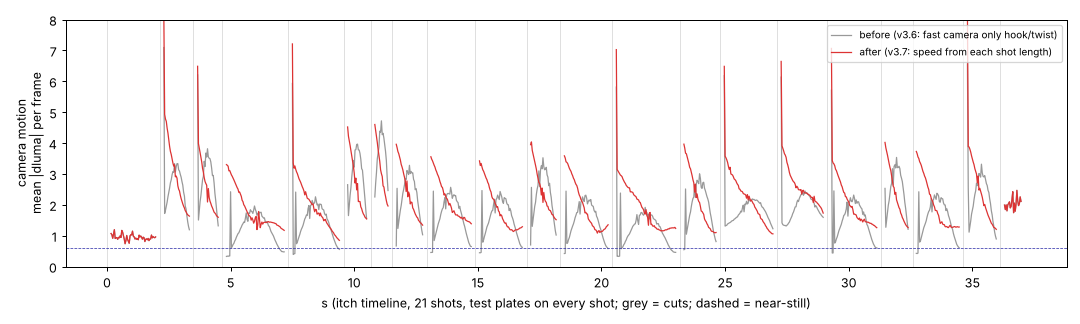
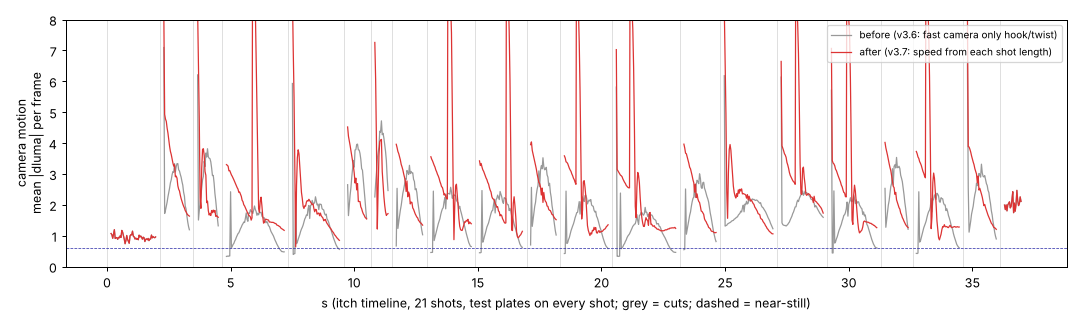
brainrot-v3: hard cuts inside a beat + zoom punch on key words, brainrot-v2 feel (v3.7 #18)
Planning room: the 0.1 s crossfade between shots of one beat made cuts soft. cut_kind() in build_index.py: beat
change / hook / twist = the look's transition (look.py still rotates it), loop seam = match, every other cut = hard
cut. Zoom punch (v2 formula, made >= 0 so the picture never shrinks past the frame edge) on highlighted captions after
the hook, >= 1.5 s apart; episode.json "punch": "off" | [captions]. Checked on the itch timeline: 12 punches in
37 s, no background at the frame edge in 1110 frames. Motion plot/GIF in docs/review-assets/v3.7 now show the final.
Test added.

Claude-Session: https://claude.ai/code/session_016zMkaSyNJ1q5w5ZvoFEJXS

diff --git a/templates/brainrot-v3/build_index.py b/templates/brainrot-v3/build_index.py
@@ -12,8 +12,10 @@ look.json picks palette / font / caption / opening / cover / transition from tem
 voice are for the voice step; music_file becomes the music track). Shot times come from shots-th.json only
 (tools/shot_times.py, refused if stale). Every shot needs a "beat" (hook ... loop). Camera (dev v3.7): every shot
 moves at a speed set by its REAL length (camera() below: a short shot pushes faster, never a still frame > 0.5 s),
-hook/twist ~1.3x stronger; the look's transition plays wherever the beat changes and inside hook/twist, other cuts
-inside one beat are a 0.1 s match. See docs/editing-v3.md.
+hook/twist ~1.3x stronger. Cuts (dev v3.7 #18, brainrot-v2 feel): the look's transition (look.py rotates it) plays
+wherever the beat changes and inside hook/twist; every other cut is a HARD cut (was a 0.1 s crossfade); the loop shot
+keeps a 0.1 s match into the hook plate. Zoom punch (v2): the picture punches in on highlighted *caption* words, at
+most one per PUNCH_GAP s (episode.json "punch": "off" | ["caption text", ...] overrides). See docs/editing-v3.md.
 
 episode.json:
 {
@@ -156,6 +158,36 @@ def camera(d, beat, i):
             'pan': 24 if i % 2 else -24}
 
 
+def cut_kind(i, s, prev):
+    """How shot i enters: none (first), match (loop seam), the look's transition (beat change / hook / twist), else cut."""
+    if i == 0:
+        return 'none'
+    if s['beat'] == 'loop':
+        return 'match'
+    if s['beat'] in FAST or s['beat'] != prev['beat']:
+        return LOOK['transition']
+    return 'cut'
+
+
+PUNCH_GAP = 1.5
+
+
+def punches(caps, times, dur, hook_end):
+    """Zoom-punch times: highlighted captions after the hook, >= PUNCH_GAP s apart, not in the last 0.5 s (loop seam)."""
+    want = EP.get('punch', 'auto')
+    if want == 'off':
+        return []
+    if isinstance(want, list):
+        pick = [t for c, t in zip(caps, times) if c in want or c.replace('*', '') in want]
+    else:
+        pick = [t for c, t in zip(caps, times) if '*' in c and t >= hook_end]
+    out = []
+    for t in pick:
+        if t < dur - 0.5 and (not out or t - out[-1] >= PUNCH_GAP):
+            out.append(t)
+    return out
+
+
 def is_video(p):
     return p.lower().endswith(('.mp4', '.webm', '.mov'))
 
@@ -181,7 +213,8 @@ def scenes():
         else:
             inner = f'<img class="vid" src="{html.escape(plate)}" alt=""/>'
         out.append(f'  <div class="sc" id="sh-{sid}"><div class="kb" id="kb-{sid}">{inner}</div><div class="vig"></div></div>')
-        sc.append({'id': sid, 'a': a, 'b': b, 'beat': s['beat'], 'still': loop or i == 0, 'cam': camera(b - a, s['beat'], i)})
+        sc.append({'id': sid, 'a': a, 'b': b, 'beat': s['beat'], 'still': loop or i == 0, 'cam': camera(b - a, s['beat'], i),
+                   'k': cut_kind(i, s, SHOTS[i - 1] if i else None)})
     return '\n'.join(out), sc
 
 
@@ -300,7 +333,7 @@ VARS = {'--bg': PAL['bg'], '--bg2': PAL['bg2'], '--ink': PAL['ink'], '--text': P
 music = LOOK.get('music_file')
 MUSIC = (f'<audio id="music" class="clip" data-start="0" data-duration="{DUR}" data-track-index="31" data-volume="0.1" '
          f'src="assets/{html.escape(pathlib.Path(music).name)}"></audio>') if music else '<!-- no music_file in look.json yet -->'
-DATA = {'dur': DUR, 'capt': capt, 'sc': SC, 'hookEnd': HOOK_END, 'look': {k: LOOK[k] for k in
+DATA = {'dur': DUR, 'capt': capt, 'sc': SC, 'hookEnd': HOOK_END, 'punch': punches(CAPS, capt, DUR, HOOK_END), 'look': {k: LOOK[k] for k in
         ('palette', 'font', 'caption', 'opening', 'cover', 'transition')}}
 rep = {'%%DUR%%': str(DUR), '%%VARS%%': ';'.join(f'{k}:{v}' for k, v in VARS.items()),
        '%%SCENES%%': SCENES, '%%CAPS%%': caps(), '%%TITLE%%': title(), '%%ICONS%%': icons(),

diff --git a/tests/test_build_index_v3.py b/tests/test_build_index_v3.py
@@ -258,3 +258,33 @@ def test_camera_speed_follows_real_shot_length(tmp_path):
     tpl = (V3 / 'index.html.tpl').read_text()
     assert 'lerp(1.0,1.08,eio(uu))' not in tpl and 'const c=s.cam' in tpl
     assert sp(1.0) >= 0.095 and sp(2.0) >= 0.06 and all(cam(d, b, 0)['k1'] <= 1.22 for d in (1, 3, 9) for b in ('hook', 'setup'))
+
+
+def test_hard_cuts_inside_a_beat_and_zoom_punch_on_key_words(tmp_path):
+    """planning room v3.7 #18 (brainrot-v2 feel): inside one beat = hard cut (was a 0.1 s crossfade); beat change and
+    hook/twist = the look's transition (look.py still rotates it); loop seam = match. Zoom punch on highlighted
+    captions after the hook, >= 1.5 s apart; episode.json "punch": "off" turns it off."""
+    shots = json.loads((FIX / 'shots.json').read_text())
+    # two explain shots in a row -> the second one must enter with a hard cut
+    ex = next(i for i, s in enumerate(shots['shots']) if s['beat'] == 'explain')
+    shots['shots'][ex + 1]['beat'] = 'explain'
+    proj, video = project(tmp_path / 'a', LOOK_A, shots=json.dumps(shots, ensure_ascii=False))
+    r = build(video)
+    assert r.returncode == 0, r.stderr
+    page = (video / 'index.html').read_text()
+    data = json.loads(re.search(r'const D=(\{.*?\}), DUR=', page).group(1))
+    sc = data['sc']
+    assert sc[0]['k'] == 'none' and sc[-1]['k'] == 'match'
+    for prev, s in zip(sc, sc[1:-1]):
+        want = 'slide' if (s['beat'] in ('hook', 'twist') or s['beat'] != prev['beat']) else 'cut'
+        assert s['k'] == want, (s['id'], s['k'], want)
+    assert any(s['k'] == 'cut' for s in sc)
+    caps = json.loads((FIX / 'episode.json').read_text())['caps']
+    assert any('*' in c for c in caps)
+    p = data['punch']
+    assert p and all(b - a >= 1.5 for a, b in zip(p, p[1:])) and all(t >= data['hookEnd'] for t in p)
+    tpl = (V3 / 'index.html.tpl').read_text()
+    assert "nx.k==='cut'" in tpl and 'const kind=' not in tpl and '(1+Math.cos(u*13))/2' in tpl
+    proj, video = project(tmp_path / 'b', LOOK_A, episode={'punch': 'off'})
+    assert build(video).returncode == 0
+    assert '"punch": []' in (video / 'index.html').read_text()

diff --git a/templates/brainrot-v3/TEMPLATE.md b/templates/brainrot-v3/TEMPLATE.md
@@ -27,7 +27,7 @@
 - `cover.html`: ปก A/B แยกจากเฟรม 0 (ดูขั้นตอนข้อ 6)
 
 ## สิ่งที่แม่แบบทำให้เอง
-- กล้อง (dev v3.7): **ทุกช็อตขยับตามความยาวจริงของช็อต** (`camera()` ใน build_index.py: push 10-17% + แพนขึ้น/ลง 24 px ยิ่งช็อตสั้นยิ่งเร็ว 1 วิ ≈ 10%/วิ, 2 วิ ≈ 6.5%/วิ, 4 วิ ≈ 4.3%/วิ; ออกตัวแรง 2.2 เท่าของความเร็วเฉลี่ยตรงจุดตัดแล้วผ่อน แต่ไม่ต่ำกว่า 40%; หมุน ±0.6° สลับทิศทีละช็อต + ส่าย 10 px ไม่หยุด; hook/twist แรงขึ้น ×1.3 + ส่าย 14 px) ความรู้สึกแบบ brainrot v2 ไม่มีเฟรมนิ่ง >0.5 วิ; ทรานซิชันของ look เล่นทุกครั้งที่เปลี่ยนช่วงเรื่อง และใน hook/หักมุม ช็อตอื่นในช่วงเดียวกัน = ครอสเฟด 0.1 วิ
+- กล้อง (dev v3.7): **ทุกช็อตขยับตามความยาวจริงของช็อต** (`camera()` ใน build_index.py: push 10-17% + แพนขึ้น/ลง 24 px ยิ่งช็อตสั้นยิ่งเร็ว 1 วิ ≈ 10%/วิ, 2 วิ ≈ 6.5%/วิ, 4 วิ ≈ 4.3%/วิ; ออกตัวแรง 2.2 เท่าของความเร็วเฉลี่ยตรงจุดตัดแล้วผ่อน แต่ไม่ต่ำกว่า 40%; หมุน ±0.6° สลับทิศทีละช็อต + ส่าย 10 px ไม่หยุด; hook/twist แรงขึ้น ×1.3 + ส่าย 14 px) ความรู้สึกแบบ brainrot v2 ไม่มีเฟรมนิ่ง >0.5 วิ; ทรานซิชันของ look (look.py สุ่มเหมือนเดิม) เล่นทุกครั้งที่เปลี่ยนช่วงเรื่อง และใน hook/หักมุม ช็อตอื่นในช่วงเดียวกัน = **คัตแข็ง** (v3.7 #18 แบบ brainrot v2; เดิมครอสเฟด 0.1 วิ) ช็อต loop = ครอสเฟดเข้าภาพ hook; **zoom punch** (เด้งเข้า ~8% แล้วคืน ภาพเท่านั้น หัวข้อ/ซับไม่ขยับ) ตรงซับที่มี `*คำสำคัญ*` หลังช่วง hook ห่างกัน ≥1.5 วิ (`episode.json` `"punch": "off"` ปิด หรือ `["ข้อความซับ", ...]` เลือกเอง)
 - เฟรม 0: หัวข้อ hook เต็มตั้งแต่เฟรมแรก (ไม่มี fade) หายใจ 1.0↔1.04 หายตอนจบช่วง hook แล้วเด้งกลับ 0.3 วิสุดท้าย
 - ลูป: ช็อตสุดท้าย (beat `loop`) เล่น plate ของ hook ให้จบที่ `media_start` ของ hook = เฟรม 0 (ต้องตั้ง `media_start` ของ hook ≥ ความยาวช็อต loop)
 - ซับ 4 แบบ (`stroke` `box` `pop` `underline`) ก้อนละ ≥0.4 วิ ไฮไลต์ `*คำสำคัญ*`, เปิด 4 แบบ (`question` `midstory` `pov` `number`) × จัดวางเฟรม 0 3 แบบ (`stack` `card` `tilt`), ทรานซิชัน 5 แบบ (`whip` `zoom` `match` `flash` `slide`)

diff --git a/channels/knowledge/style.md b/channels/knowledge/style.md
@@ -180,7 +180,7 @@
   (v3.7: กล้องแม่แบบขยับทุกช็อตตามความยาวช็อตจริง push 10-17% + แพน 24 px + หมุน ±0.6° + ส่ายไม่หยุด ช็อตสั้น = เคลื่อนชัด ผ่านข้อนี้; ข้อ "motion ≥2 ชั้น" ให้นับกราฟิก/ซับที่ขยับในช็อตเป็นชั้นที่ 2)
 - hook: ข้อความคำถามอยู่ตั้งแต่เฟรมแรก แต่ "หายใจ" (scale 1.0↔1.04 spring) ภาพเปลี่ยนครั้งแรก < 1.0 วิ
 - แผนภาพ 2D เคลื่อนตลอด (อนุภาค/พัลส์/คลื่น) กล้องซูม/แพนตามจุดที่พูดถึง
-- ทรานซิชัน: whip-pan / zoom-through / match-cut ไม่ตัดแข็งทุกช็อต (v3: ทรานซิชันของ look เล่นเฉพาะตอนเปลี่ยนช่วงเรื่องและใน hook/หักมุม ช็อตอื่นครอสเฟด 0.1 วิ จึงไม่มีตัดแข็ง/แฟลชทุกช็อต)
+- ทรานซิชัน: whip-pan / zoom-through / match-cut ไม่ตัดแข็งทุกช็อต (v3.7: ทรานซิชันของ look เล่นตอนเปลี่ยนช่วงเรื่องและใน hook/หักมุม ช็อตอื่นในช่วงเดียวกันตัดแข็งแบบ brainrot v2 ที่ผู้ใช้ชอบ + zoom punch ตรงคำสำคัญ; ไม่มีแฟลช/ทรานซิชันใหญ่ทุกช็อต)
 - ซับเด้ง spring ทีละก้อน ไฮไลต์คำสำคัญสีเหลือง
 - reviewer: ดึงเฟรมทุก 0.25 วิ ต้องไม่มีช่วง diff ≈ 0 เกิน 0.5 วิ
 - **ช็อตที่ footage ไม่ครบหรือไม่ตรงคำ ให้ใช้ motion graphic ช่วย** (ผู้ใช้สั่ง ตอนแมว) เช่น ผิวน้ำ + ปลาเด้งตรงคำ "ดำน้ำ" ซ้อนบนภาพนิ่ง ดีกว่าภาพที่ไม่ตรงคำ
